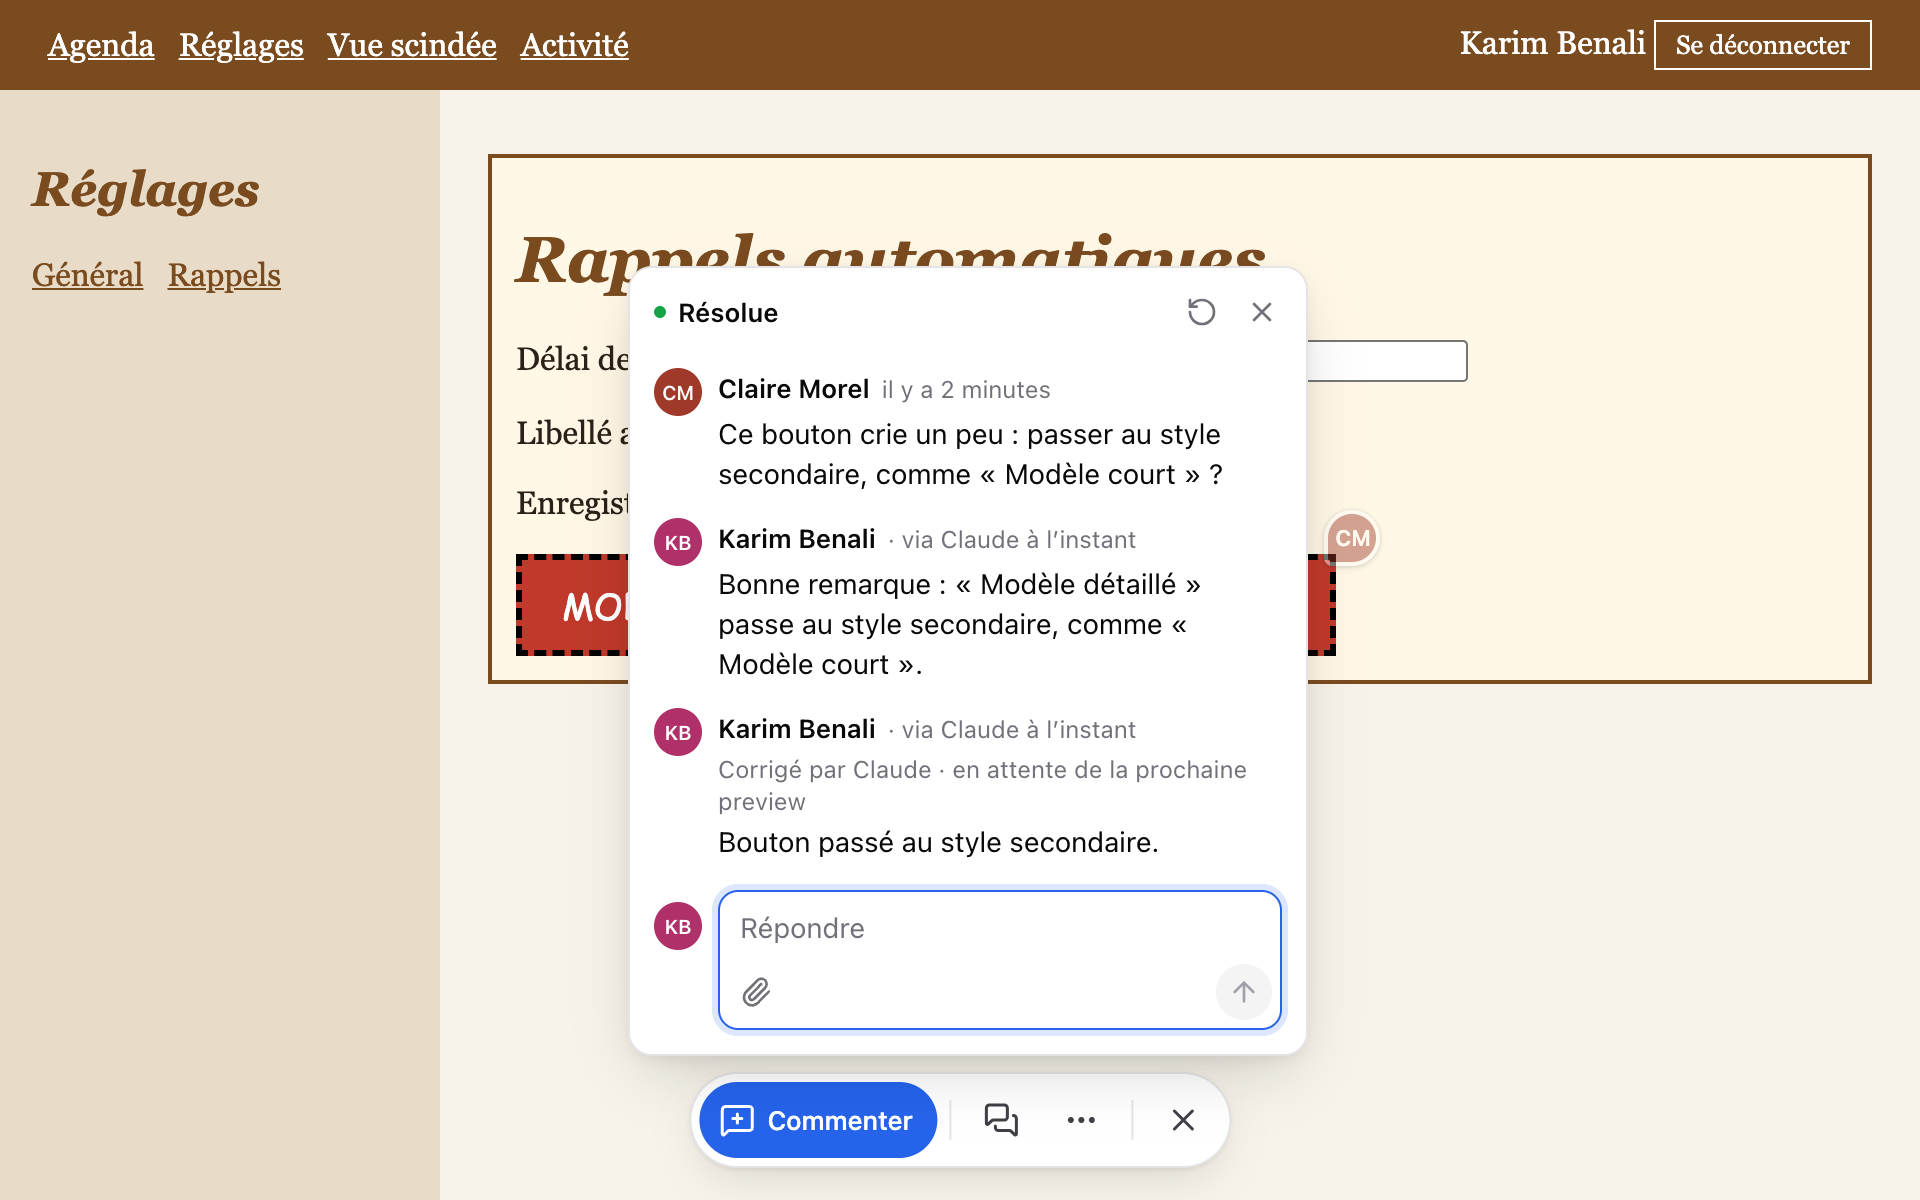
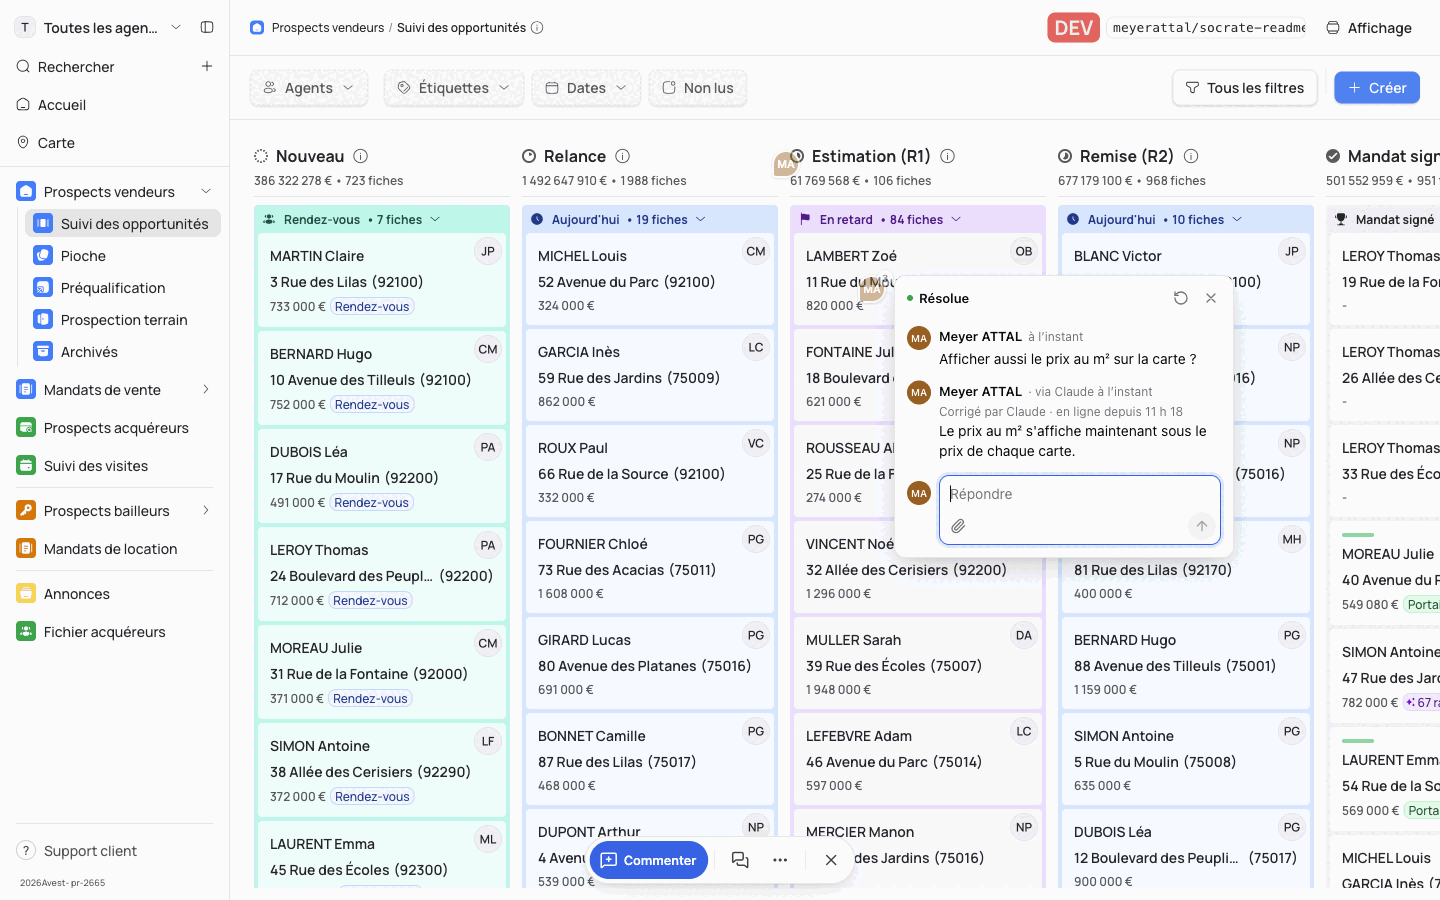
Show Socrate on a preview of the Avest CRM in the README

diff --git a/README.md b/README.md
@@ -29,7 +29,8 @@
 </p>
 
 <p align="center">
-  <img alt="A reviewer clicks a button in a preview, writes a comment, and the thread appears as a pin on the element and in the conversation list" src=".github/assets/socrate-demo.gif" width="960">
+  <img alt="On a pull request preview of the Avest CRM, a reviewer clicks a price, writes a comment and sends it; then the thread shows the fix by Claude, live on the preview" src=".github/assets/socrate-demo.gif" width="960">
+  <br><sub>Socrate on a pull request preview of the Avest CRM, with sample data.</sub>
 </p>
 
 Socrate lets product people leave contextual feedback directly inside the preview deployments of a web app, and lets coding agents read that feedback back, reply and resolve it.
@@ -123,7 +124,7 @@ Package reference: [packages/socrate/README.md](packages/socrate/README.md).
 ## For coding agents
 
 <p align="center">
-  <img alt="A resolved thread: the reviewer's comment, the developer's reply via Claude, and the resolution marked « Corrigé par Claude · en attente de la prochaine preview »" src=".github/assets/resolved-by-claude.png" width="720">
+  <img alt="A resolved thread: the reviewer's comment, the developer's reply via Claude, and the resolution marked « Corrigé par Claude · en ligne depuis 11 h 18 »" src=".github/assets/resolved-by-claude.png" width="720">
 </p>
 
 Connect your agent once per project and machine, then let it work through the feedback of your pull request:
